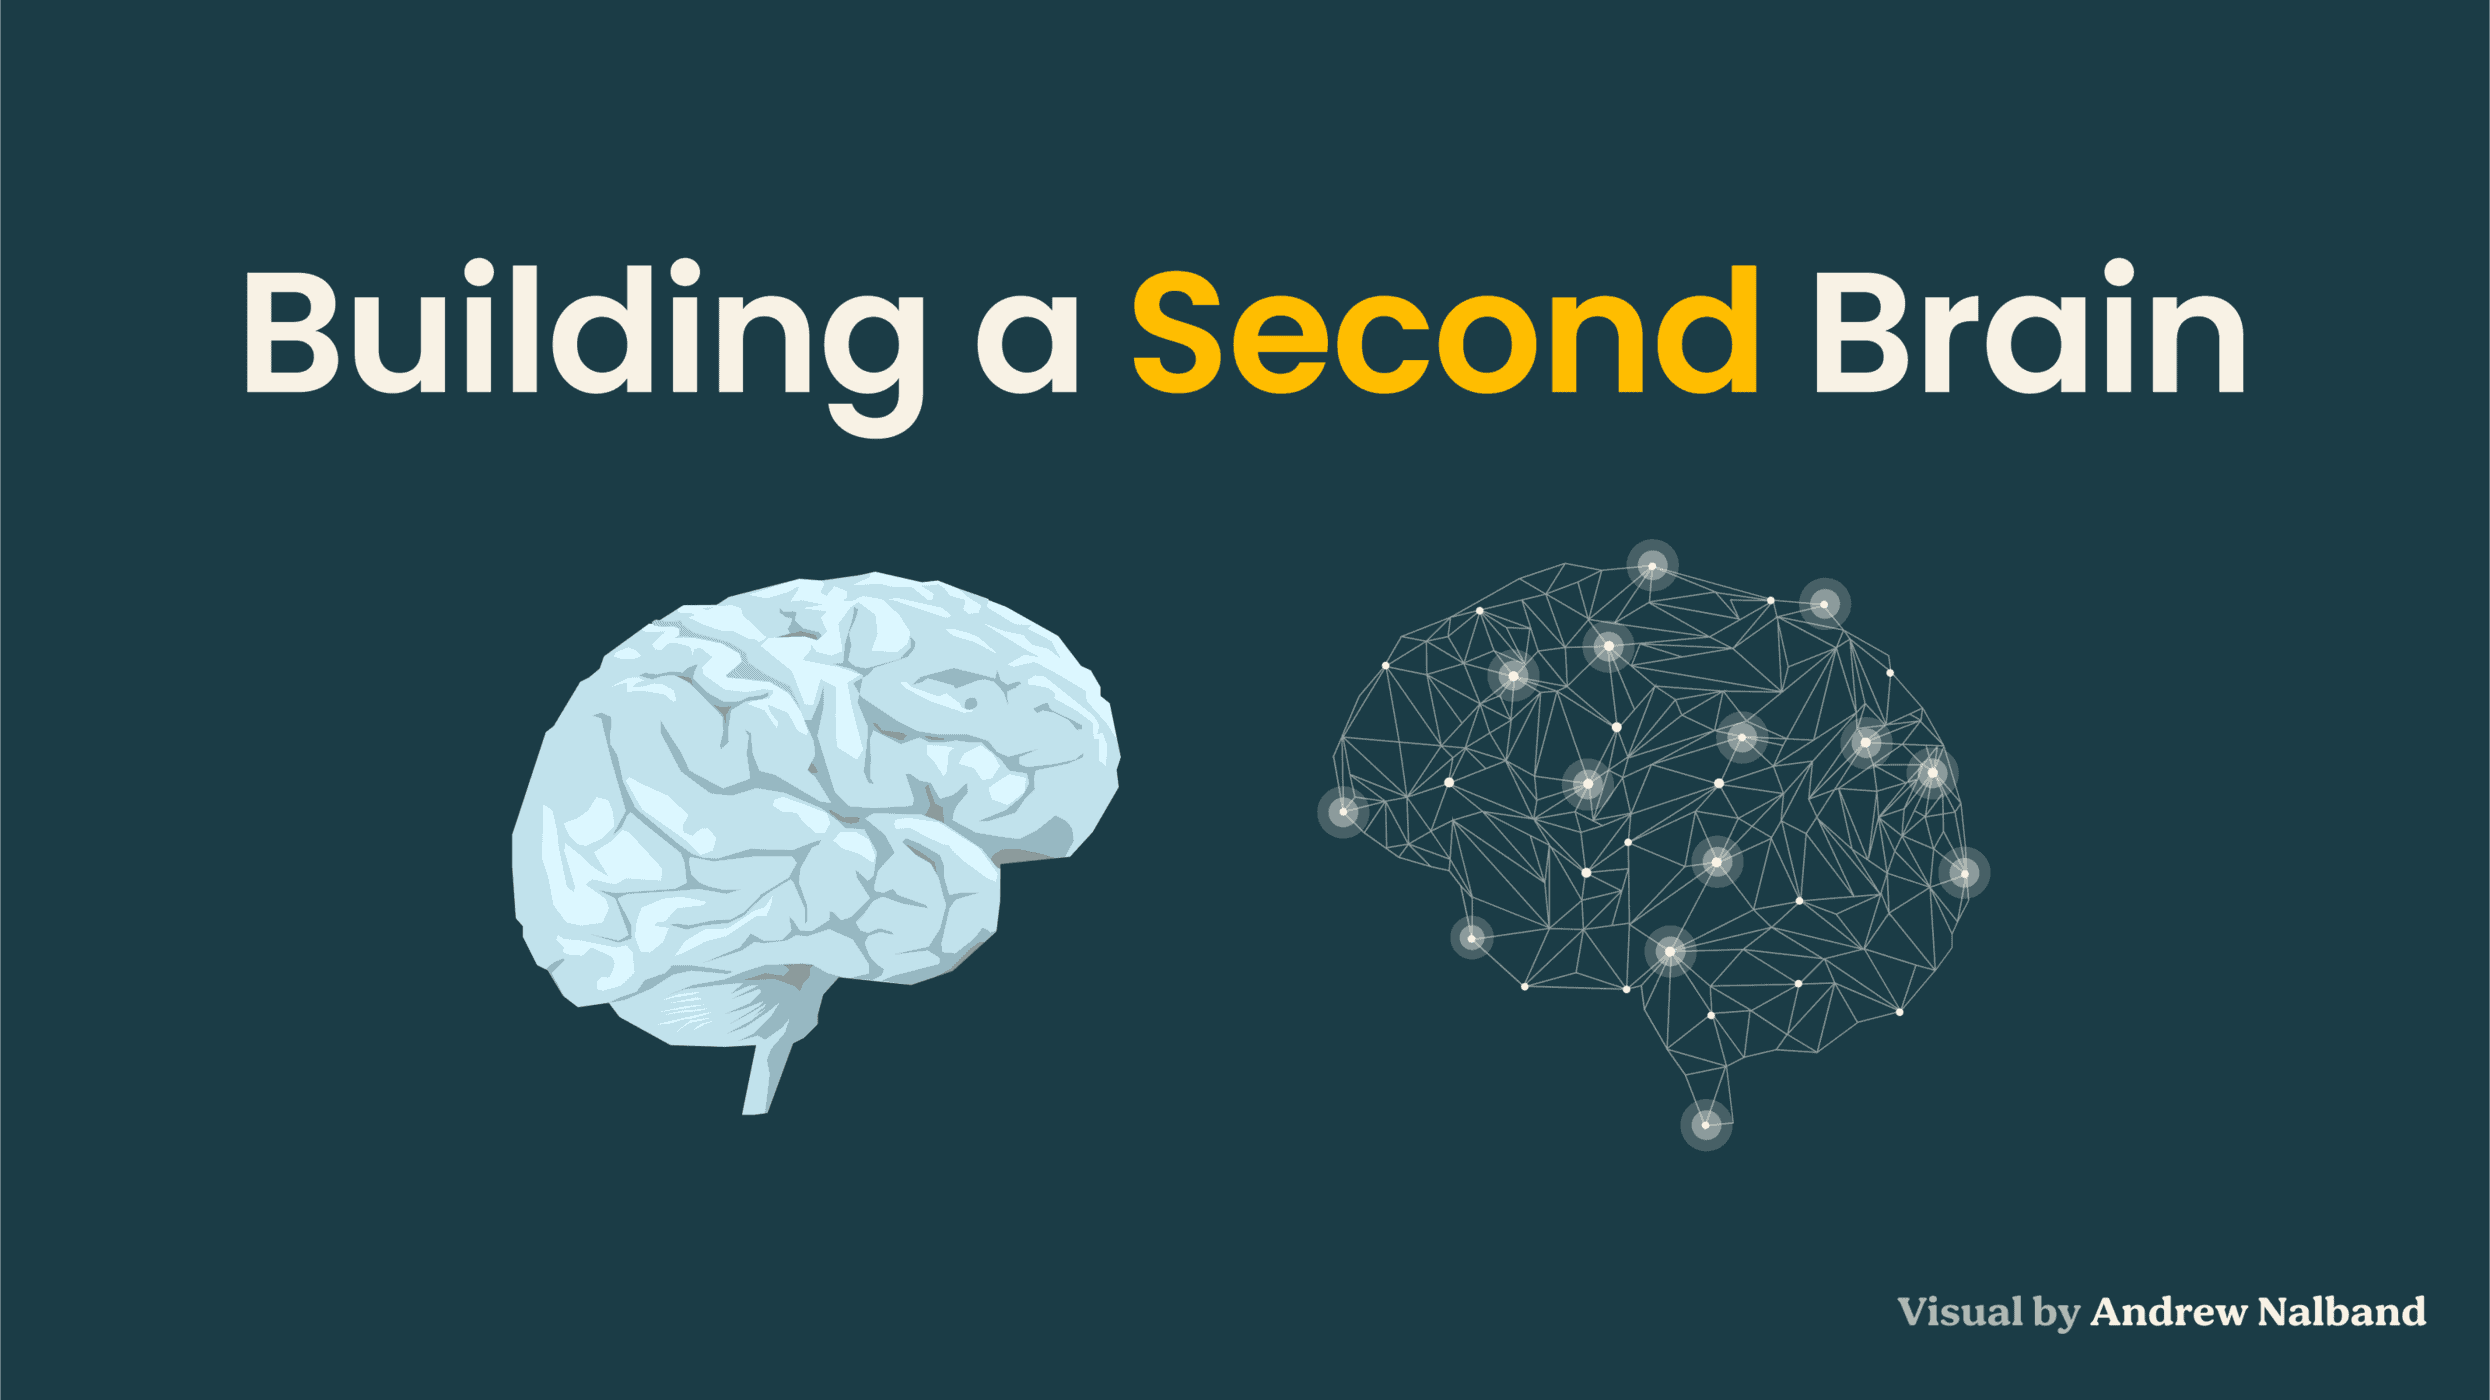
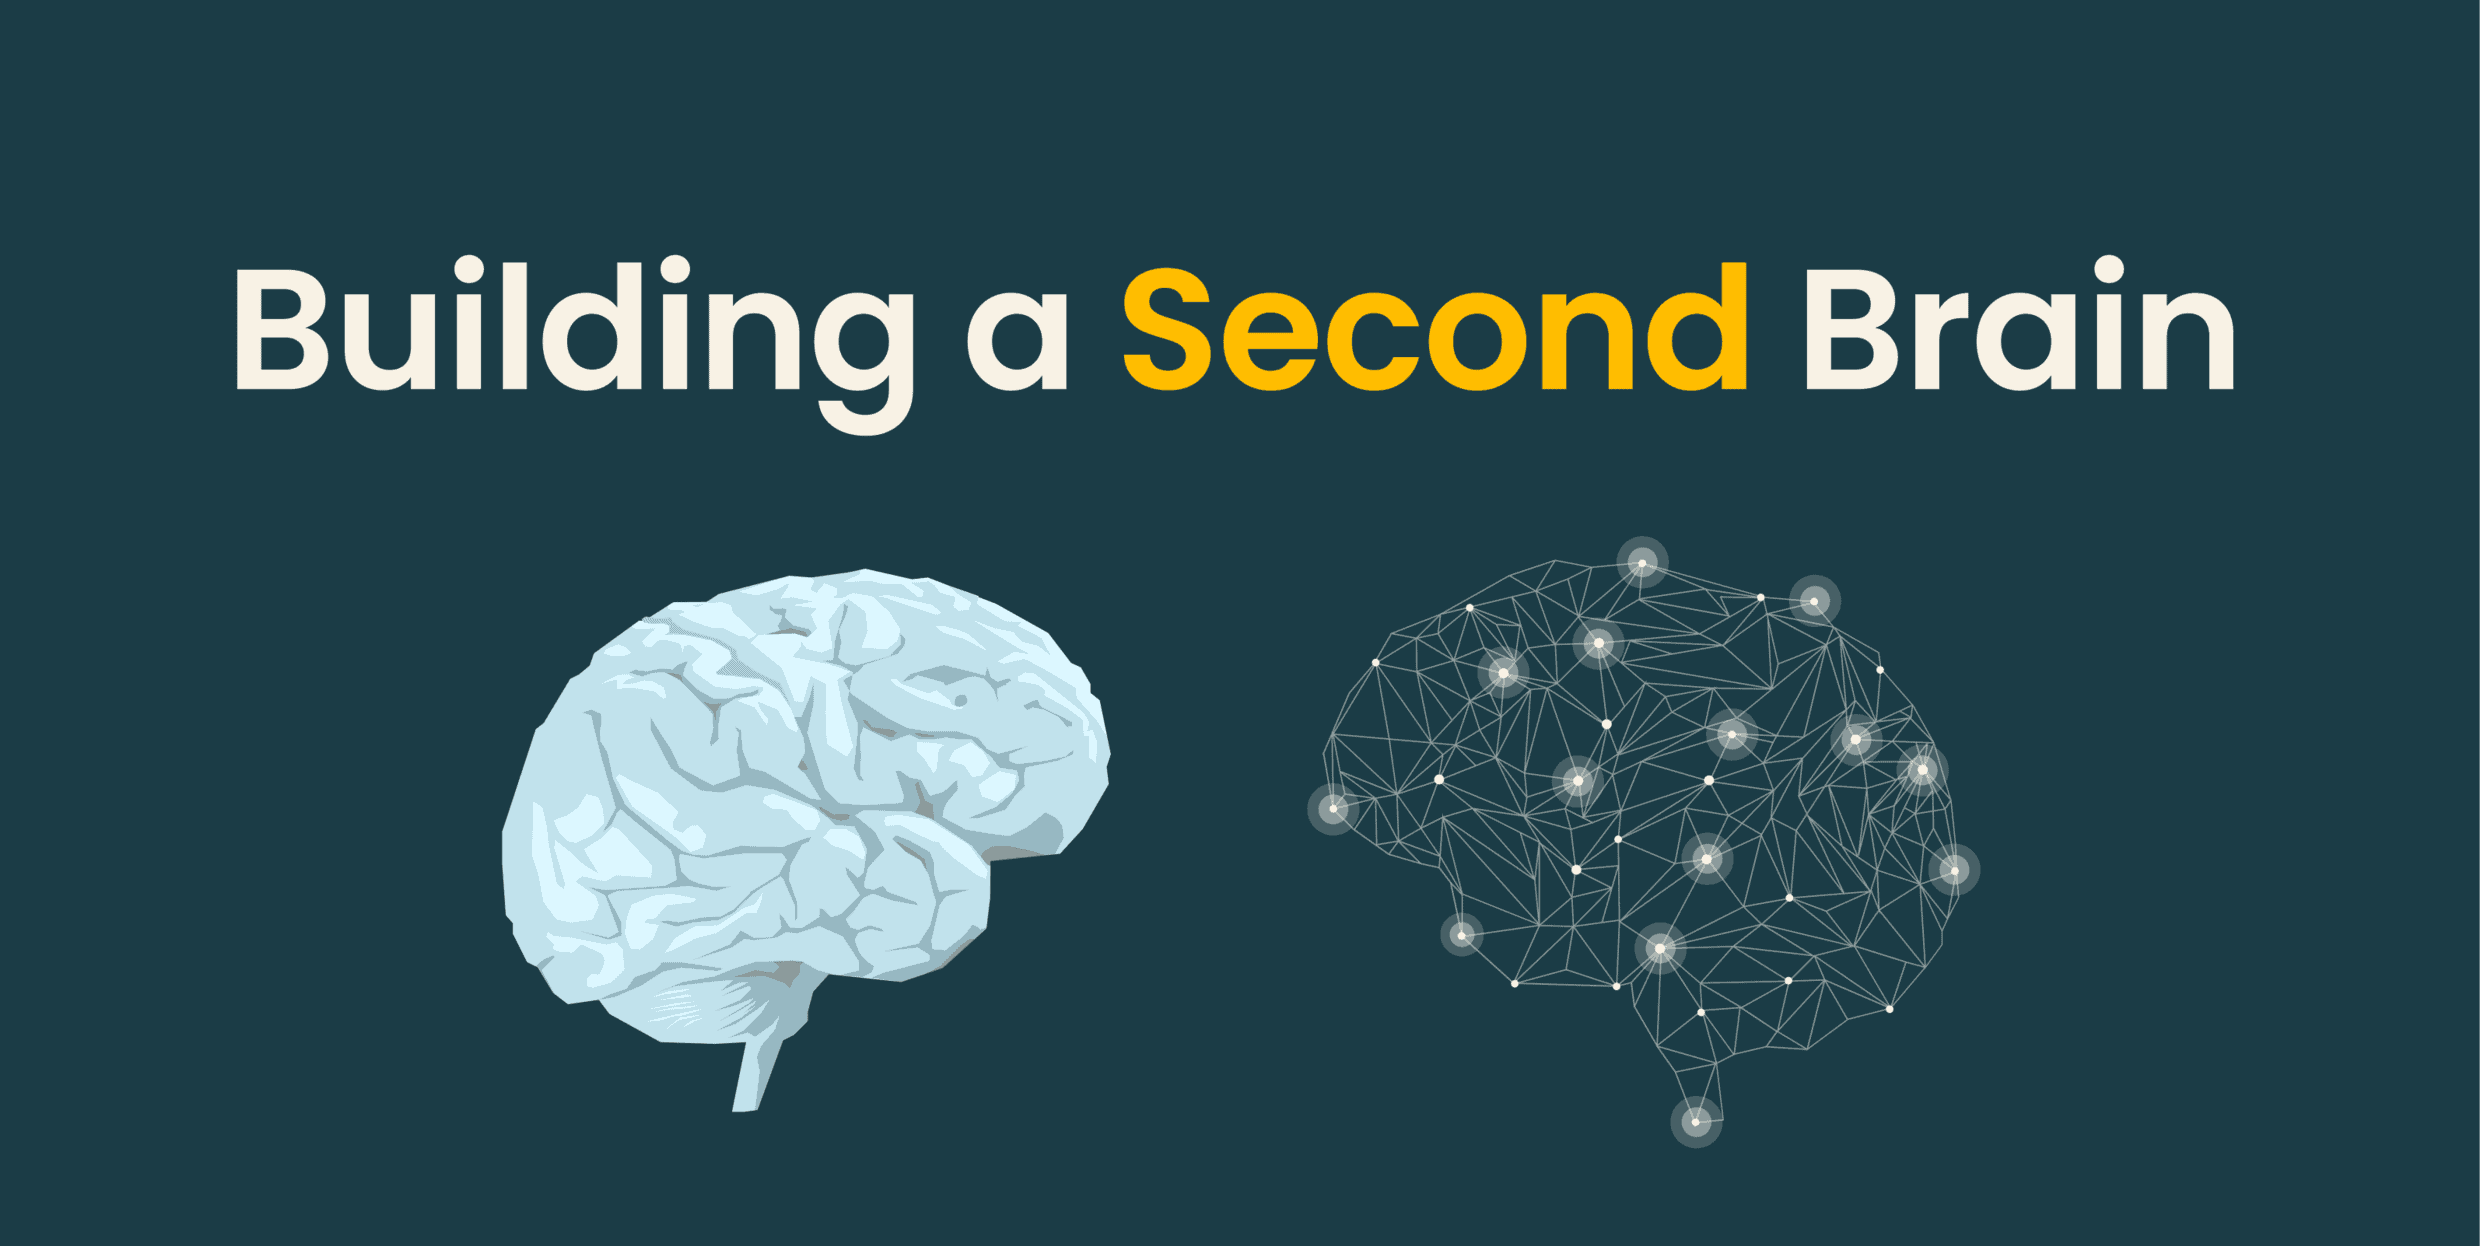
update the instruction for 1.1

diff --git a/Cohort-Labs/Bootcamp-3/04 - building-data-lakes-with-claude/01-channel-data-pipeline/1.1-connecting-claude-composioMCP/readme.md b/Cohort-Labs/Bootcamp-3/04 - building-data-lakes-with-claude/01-channel-data-pipeline/1.1-connecting-claude-composioMCP/readme.md
@@ -1,5 +1,7 @@
 # Connecting Claude to Composio via MCP
 
+![image](./images/banner.png)
+
 ---
 
 ## What Is MCP?
@@ -51,6 +53,8 @@ Paste this prompt, replacing the placeholder with the URL you just copied:
 Run the following command in the terminal and add the Composio MCP server:
 
 <paste your MCP URL here>
+
+After running the command, complete the authentication process.
 ```
 
 Claude will run the command and register Composio as a connected tool.
@@ -118,6 +122,15 @@ Claude is no longer in a closed room. It now has a direct line to Composio — a
 The connection is live. Let's actually use it.
 
 Below are ready-to-run prompts you can paste directly into Claude. Each one tells Claude exactly what to fetch and how to structure the output. Try them one at a time — watch Claude reach out through Composio and come back with real data from your accounts.
+
+> **Before you start:** Add your `second-brain` folder to Claude so it can read and write files. You'll see how to do that in the image below.
+
+![Add second-brain folder to Claude](./images/4.png)
+
+> **Tip:** To save tokens, switch to the Sonnet model and set thinking to low before running these prompts.
+
+
+![Add second-brain folder to Claude](./images/6.png)
 
 ---
 
@@ -192,16 +205,20 @@ Combine all videos, deduplicate by video ID, then:
 - Identify the single highest-engagement video (most likes + comments)
 
 Finally:
-1. Create a folder at second-brain/raw/youtube/competitors/ if it doesn't exist
+1. Create a folder at second-brain/raw/ if it doesn't exist
 2. Save the full channel profile, stats, video list, theme breakdown, cadence data, and analysis as a single JSON file at:
-   second-brain/raw/youtube/competitors/MaheshAIPMCommunity.json
+   second-brain/raw/MaheshAIPMCommunity.json
 ```
+
+> **Note:** Claude will ask for permission before writing files — approve it when prompted. Once complete, you'll see the `raw/` folder in your second-brain updated with the fetched data.
+
+![Raw folder updated with fetched data](./images/7.png)
 
 ---
 
 ### LinkedIn Analytics
 
-> **Before running:** Find 3–5 of your recent LinkedIn posts, copy their links (three-dot menu → "Copy link to post"), extract the numeric ID from each URL, and format as `urn:li:share:<id>`. Replace `POST_URN_1`, `POST_URN_2`, etc. below with those values.
+> **Before running:** Find 3–5 of your recent LinkedIn posts, copy their links (three-dot menu → "Copy link to post"), extract the numeric ID from each URL, and format as `urn:li:share:<id>`. You'll paste those into the prompt below.
 
 **My LinkedIn Personal Profile Full Research**
 ```
@@ -266,12 +283,28 @@ Tell me:
 - What should I post more of based on this data?
 
 Finally:
-1. Create a folder at second-brain/raw/linkedin/my-profile/ if it doesn't exist
+1. Create a folder at second-brain/raw/ if it doesn't exist
 2. Save the full profile, images, all post content, reactions, engagement stats, and analysis as a single JSON file at:
-   second-brain/raw/linkedin/my-profile/full-research.json
+   second-brain/raw/LinkedIn-initmahesh.json
 ```
 
+
+
+
 ---
+
+### Adding Data Manually
+
+You don't have to fetch everything through Composio. You can also drop files directly into your `raw/` folder — for example, customer feedback exports, call transcripts, or survey results.
+
+For call transcripts specifically, you can automate this using the Zoom connector in Claude, which fetches transcripts directly. Note that the Zoom integration requires a **Business or Enterprise plan**.
+
+For everything else — just paste the file into `second-brain/raw/` and it will be picked up automatically when the push skill runs.
+
+---
+
+
+You might be thinking — do I need to come back to Claude every day and manually ask it to pull the data? No. That's exactly what the scheduler below solves. Set it once and it triggers itself automatically, fetching fresh data for you every day without any input from you but make sure your claude should be runing 24/7 for that .
 
 ### Daily Auto-Fetch Scheduler
 
@@ -334,6 +367,11 @@ Create both folder paths if they don't exist.
 
 Schedule this as a recurring cron job that runs automatically every day at 10:00 AM.
 ```
+
+
+![Add second-brain folder to Claude](./images/8.png)
+
+
 
 ---
 

diff --git a/Cohort-Labs/Bootcamp-3/04 - building-data-lakes-with-claude/00-foundation/0.2-creating-composioaccount/readme.md b/Cohort-Labs/Bootcamp-3/04 - building-data-lakes-with-claude/00-foundation/0.2-creating-composioaccount/readme.md
@@ -50,8 +50,6 @@ You can sign up with Google or with an email and password — either works.
 
 If you signed up with email, check your inbox for a verification link. Click it to activate your account.
 
-![Email verification](./images/3.png)
-
 ---
 
 ## Step 4: Log Into Your Dashboard
